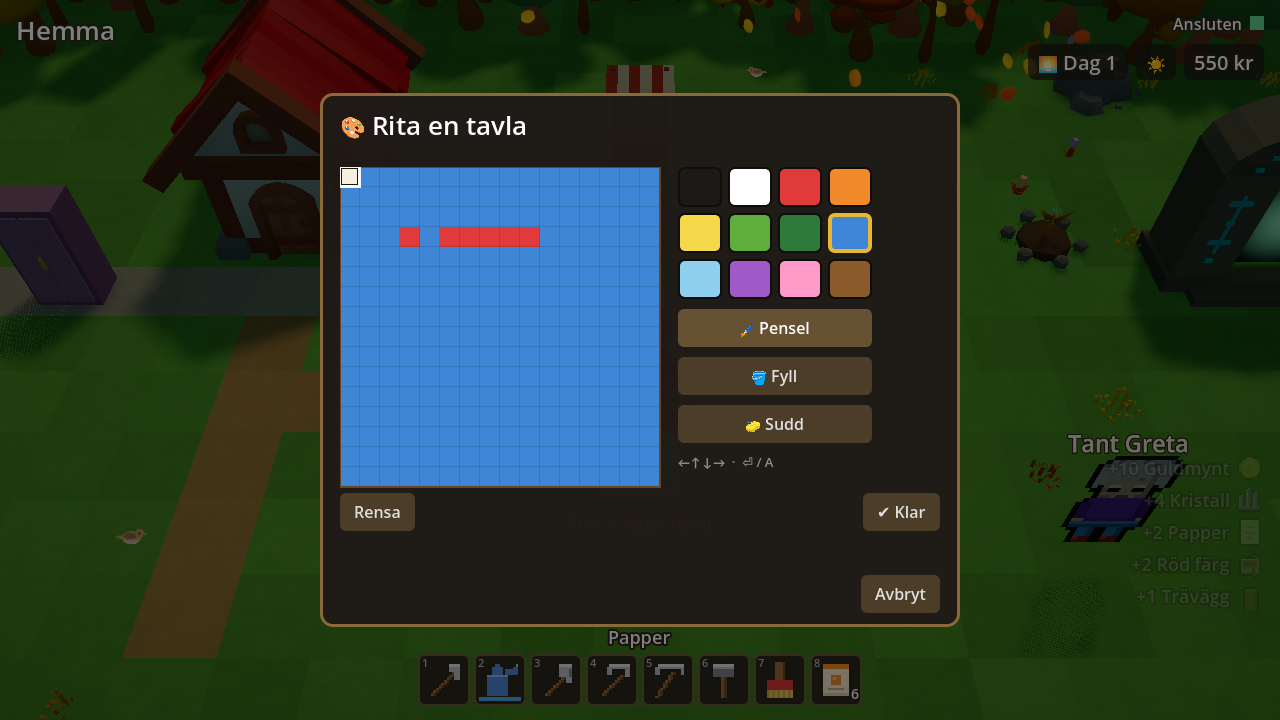
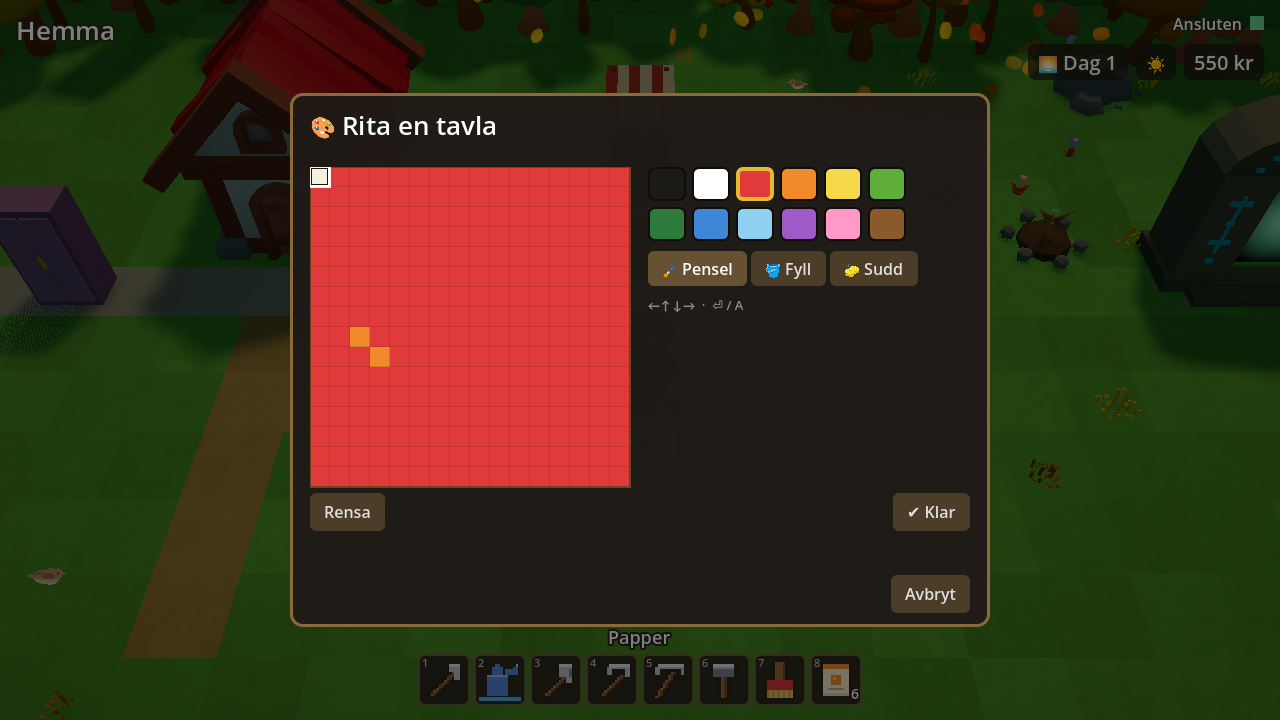
Pictures: the paint screen and the forge at 175 % text, the paint screen's new layout
Claude-Session: https://claude.ai/code/session_01KTh22p4K3ndqxPjbtbdwqX

diff --git a/README.md b/README.md
@@ -306,7 +306,7 @@ Home and village (M4c): [the workbench](packages/godot/docs/m4c-workbench.png), 
 
 Smedjan: [the forge window](packages/godot/docs/smedjan-forge.png), [two levels up](packages/godot/docs/smedjan-forge-level2.png), [the starter set Stina smiths](packages/godot/docs/smedjan-smith.png)
 and [the gear window with "Järnyxa +2"](packages/godot/docs/smedjan-gear.png). Paper and paint: [the paint screen](packages/godot/docs/paint-screen.png),
-[a painted tavla hung in its frame](packages/godot/docs/paint-frames.png), [a painted wall](packages/godot/docs/paint-walls.png) and [a painted farmhouse](packages/godot/docs/paint-house.png).
+[the paint screen at 175 % text](packages/godot/docs/paint-screen-175.png), [the forge at 175 % text](packages/godot/docs/smedjan-forge-175.png), [a painted tavla hung in its frame](packages/godot/docs/paint-frames.png), [a painted wall](packages/godot/docs/paint-walls.png) and [a painted farmhouse](packages/godot/docs/paint-house.png).
 
 Farming (M4b): [watering](packages/godot/docs/m4b-watering.png), [the bag and a chest](packages/godot/docs/m4b-bag-chest.png),
 [the bag from the demo](packages/godot/docs/m4b-bag-demo.png) [a bite](packages/godot/docs/m4b-fishing-bite.png) and [a wild fox petted](packages/godot/docs/m4b-pet.png).
